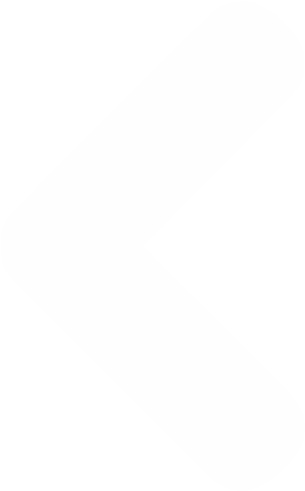
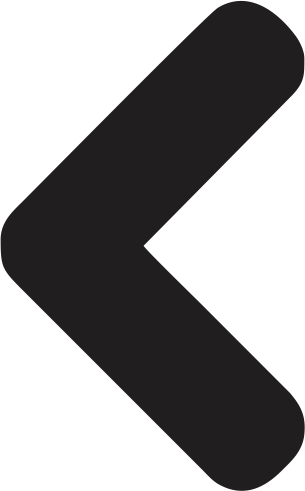
att

diff --git a/src/style.css b/src/style.css
@@ -184,7 +184,7 @@ ul li {
 }
 
 .blog-grid .control img {
-    width: 10px;
+    width: 20px;
 
 }
 
@@ -192,12 +192,11 @@ ul li {
     display: flex;
     justify-content: center;
     align-items: center;
-    width: 40px;
-    height: 40px;
+    width: 30px;
+    height: 30px;
     cursor: pointer;
     object-fit: cover;
-    margin: 10px;
-    background-color: #000028;
+    margin: 13px;
     border-radius: 50%;
 }
 
@@ -343,11 +342,7 @@ ul li {
     .blog-grid {
         flex-direction: row;
     }
-
-    .blog-grid .control {
-        width: 60px;
-        height: 30px;
-    }
+    
 
     .slider {
 
@@ -1087,6 +1082,7 @@ ul {
 }
 
 @media only screen and (max-width: 1150px) {
+   
     section {
         flex-direction: column;
         align-items: center;
